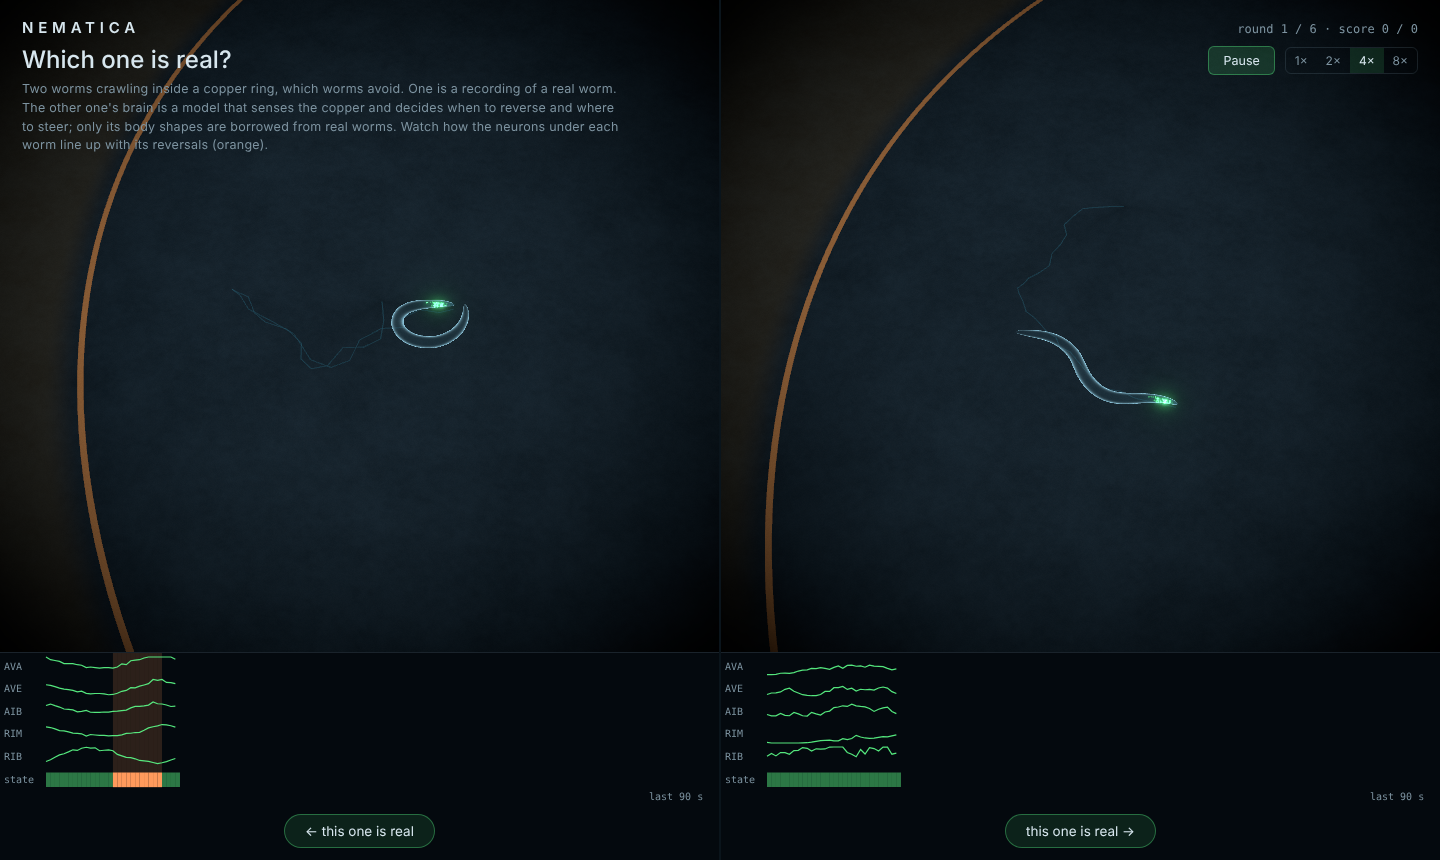
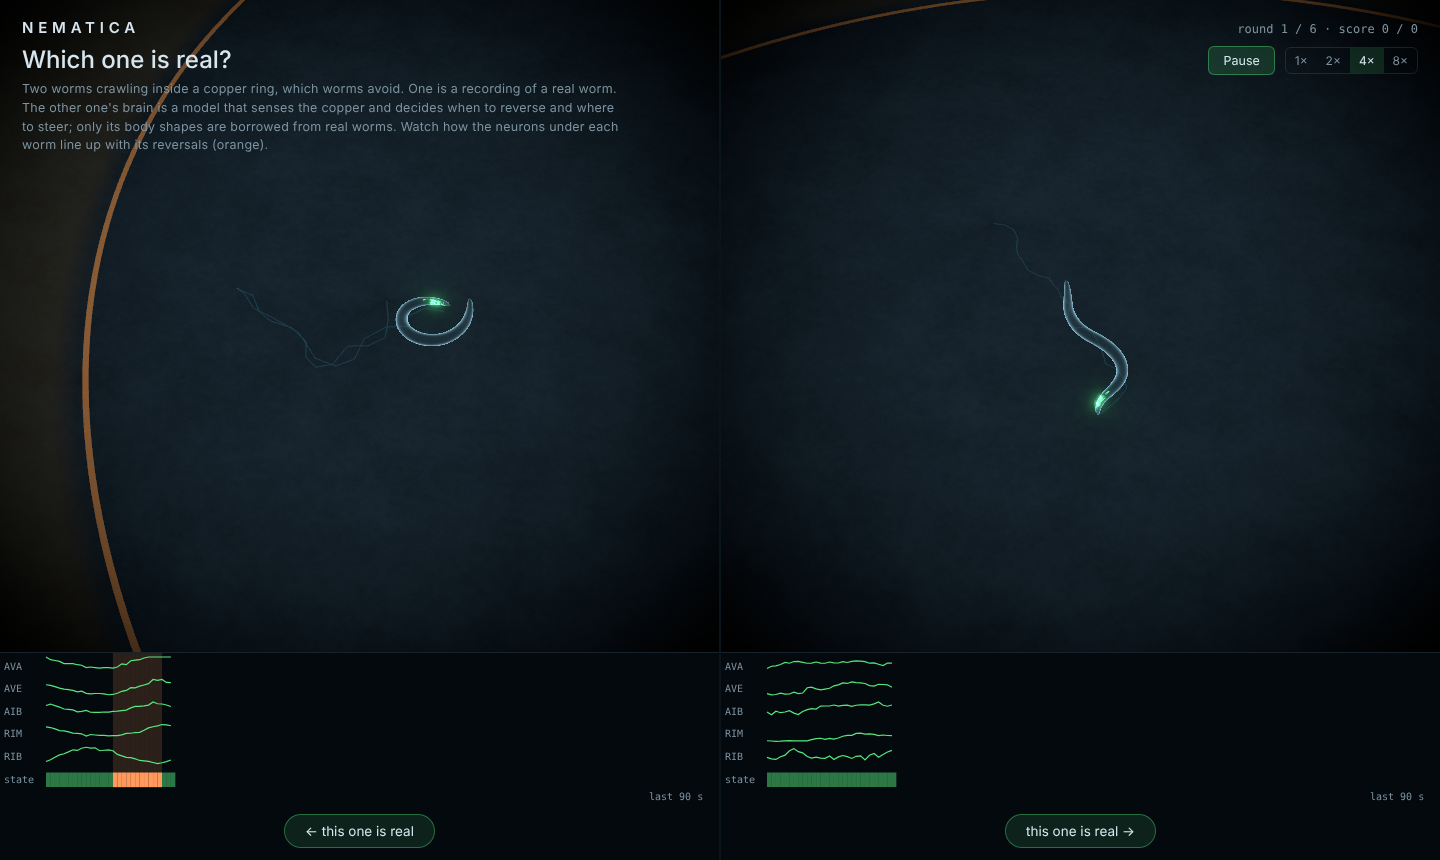
Closed loop v11: copper enters only through ASH; 9/10 pairwise and all of Level 6
Model ASH copper rise 1.11 (real 1.37) open loop. Lead-lag still misses, now because the
command neurons lead ASH in closed loop. Copper showcase switched to v11.

Claude-Session: https://claude.ai/code/session_01MajxYLvWkedCbRCubX3MC6

diff --git a/nematica/systems/closed_loop.py b/nematica/systems/closed_loop.py
@@ -56,7 +56,7 @@ class SensoryVAR:
                  sense_scales=(SENSE_SCALE_MM,), per_worm_rates: bool = False,
                  sense_ridge_mults=(1.0,), steer: bool = False, steer_window: int = 17,
                  copper_limit: bool = False, steer_scales=None, heading_noise: float = 0.0,
-                 stage_speed: bool = False, lags: int = LAGS, slow_taus=(0.0,)):
+                 stage_speed: bool = False, lags: int = LAGS, slow_taus=(0.0,), sense_targets=None):
         """hazard_from: "brain" (core classes and velocity), "speed" (velocity only) or "none"
         (constant rates); copper proximity is added to any of them when `senses` is on.
         directional: add proximity x facing-the-copper to the senses.
@@ -80,6 +80,9 @@ class SensoryVAR:
         self.lags = lags                       # memory of the brain model, frames
         self.slow_taus = tuple(slow_taus)      # candidate tonic-copper time constants, frames
         self.slow_tau = self.slow_taus[0]
+        # copper input only into these classes' rows (e.g. ("ASH",)): every other neuron gets
+        # copper only through the brain's own dynamics [A: sensory neurons receive the stimulus]
+        self.sense_targets = tuple(sense_targets) if sense_targets else None
         self.speed_q_worm: dict = {}
         self.d_limit = -np.inf
         self.offsets: dict = {}
@@ -92,7 +95,8 @@ class SensoryVAR:
         tail = ("_steer" if self.steer and self.senses else "") + ("_limit" if self.copper_limit and self.senses else "") \
             + (f"_lags{self.lags}" if self.lags != LAGS else "") \
             + ("_tonic" if any(t > 0 for t in self.slow_taus) and self.senses else "") \
-            + ("_pen" if self.sense_ridge_mults == (1.0,) and self.hazard_from == "command_ash" else "")
+            + ("_pen" if self.sense_ridge_mults == (1.0,) and self.hazard_from == "command_ash" else "") \
+            + ("_into_" + "_".join(self.sense_targets) if self.sense_targets and self.senses else "")
         if self.reversals == "hysteresis":
             return n + "_hyst" + ("_dir" if self.directional and self.senses else "")
         return n + ("" if self.hazard_from == "brain" else "_" + self.hazard_from) \
@@ -152,6 +156,29 @@ class SensoryVAR:
         return np.concatenate([f, e_prev]) if self.senses else f
 
     # ------------------------------------------------------------------ fit
+    def _sense_cols(self):
+        """Output columns allowed to receive copper input (None = all)."""
+        if not (self.senses and self.sense_targets):
+            return None
+        names = [self.space.classes[c] for c in self.space.core]
+        return np.array([i for i, c in enumerate(names) if c in self.sense_targets], dtype=int)
+
+    def _ridge(self, G, B, pen, n_brain, prior=None):
+        """Ridge solve (G + diag(pen)) W = B (+ diag(pen) prior), with copper rows of W zero
+        outside the target columns when sense_targets is set (column-separable)."""
+        P = np.diag(pen)
+        rhs = B if prior is None else B + P @ prior
+        W = np.linalg.solve(G + P, rhs)
+        cols = self._sense_cols()
+        if cols is None or n_brain >= G.shape[0]:
+            return W
+        other = np.setdiff1d(np.arange(B.shape[1]), cols)
+        Gb, Pb = G[:n_brain, :n_brain], P[:n_brain, :n_brain]
+        rb = B[:n_brain][:, other] if prior is None else B[:n_brain][:, other] + Pb @ prior[:n_brain][:, other]
+        W[:, other] = 0.0
+        W[:n_brain][:, other] = np.linalg.solve(Gb + Pb, rb)
+        return W
+
     def _hazard_data(self, samples, state):
         Xh, yh = [], []
         for s in samples:
@@ -236,7 +263,7 @@ class SensoryVAR:
                 pen = np.ones(X.shape[1])
                 pen[n_brain:] = mult
                 for r in self.ridges:
-                    W = np.linalg.solve(G0 + r * np.diag(pen), X.T @ Y)
+                    W = self._ridge(G0, X.T @ Y, r * pen, n_brain)
                     num = den = 0.0
                     for F, Yv, M in va:
                         P = F @ W
@@ -250,7 +277,7 @@ class SensoryVAR:
         self.W_pool = best[2]
         self.W, self.L, self.names = {}, {}, []
         for s, (F, Yt, M) in zip(train, tr):
-            W = np.linalg.solve(F.T @ F + self.lam * np.eye(F.shape[1]), F.T @ Yt + self.lam * self.W_pool)
+            W = self._ridge(F.T @ F, F.T @ Yt, self.lam * np.ones(F.shape[1]), n_brain, prior=self.W_pool)
             R = (Yt - F @ W) * M
             cov = R.T @ R / len(R) + 1e-6 * np.eye(R.shape[1])
             self.W[s.origin], self.L[s.origin] = W, np.linalg.cholesky(cov)

diff --git a/scripts/export_virtual_worms.py b/scripts/export_virtual_worms.py
@@ -38,10 +38,12 @@ from nematica.systems.closed_loop import SensoryVAR  # noqa: E402
 from nematica.systems.forecasters import (CalciumStateSpace, Debounced, Forecaster,  # noqa: E402
                                           IndividualVAR, LagFeatures)
 
-V7 = dict(senses=True, hazard_from="command_fixed", directional=True, speed_map=True,
-          sense_scales=(0.25, 0.5, 1, 2, 4), per_worm_rates=True, steer=True, copper_limit=True,
-          steer_scales=(0.5, 1, 2, 4, 8), stage_speed=True)
-CL_LABEL = "closed loop v7: the brain model senses copper, decides reversals and steers its own body"
+V11 = dict(senses=True, hazard_from="command_ash", directional=True, speed_map=True,
+           sense_scales=(0.25, 0.5, 1, 2, 4), per_worm_rates=True, steer=True, copper_limit=True,
+           steer_scales=(0.5, 1, 2, 4, 8), stage_speed=True, sense_ridge_mults=(1.0, 0.1, 0.01, 0.0),
+           slow_taus=(0.0, 8.0, 25.0, 50.0), sense_targets=("ASH",))
+CL_LABEL = ("closed loop v11: copper reaches the brain only through ASH; the brain decides reversals "
+            "and steers its own body")
 
 MODEL_LABEL = "per-worm linear dynamics on the calcium drive (10 frames of memory), reversals read with hysteresis"
 METRIC_NAMES = {
@@ -74,7 +76,7 @@ def main() -> int:
     if args.closed_loop and args.out == "lab/public/data/which2":
         args.out = "lab/public/data/which3"
     if args.closed_loop and args.scorecard == "docs/figures/lags_combined.csv":
-        args.scorecard = "docs/figures/closed_loop_v7.csv"
+        args.scorecard = "docs/figures/closed_loop_v11.csv"
 
     recs = load_copper_dir(Path(args.data))
     split = load_split(args.split)
@@ -88,7 +90,7 @@ def main() -> int:
     library = MotionLibrary.from_recordings([by[u] for u in split["train"]])
     cl_runs = {}
     if args.closed_loop:
-        model = SensoryVAR(**V7).fit(train, val)
+        model = SensoryVAR(**V11).fit(train, val)
         model.calibrate_steering(train, [(by[u].meta["arena"]["radius_mm"], float(by[u].behaviour["dist_from_center_mm"][0]),
                                           by[u].t) for u in split["train"]], library,
                                  mults=(1, 2, 3, 4, 5, 6, 8, 12), target="drift")

diff --git a/scripts/run_closed_loop.py b/scripts/run_closed_loop.py
@@ -39,7 +39,7 @@ def main() -> int:
     ap.add_argument("--out", default="results/closed_loop")
     ap.add_argument("--seeds", type=int, default=2)
     ap.add_argument("--seed-offset", type=int, default=0, help="shifts every simulation seed (replicates)")
-    ap.add_argument("--variants", default="v2", choices=("v2", "v3", "v4", "v5", "v6", "v7", "v8", "v9", "v10"))
+    ap.add_argument("--variants", default="v2", choices=("v2", "v3", "v4", "v5", "v6", "v7", "v8", "v9", "v10", "v11"))
     args = ap.parse_args()
     recs = load_copper_dir(Path(args.data))
     classes = tuple(canonical_classes(recs, 0.25))
@@ -97,6 +97,14 @@ def main() -> int:
         variants = {"senses_ash_tonic": dict(**base9, sense_ridge_mults=(1.0, 0.1, 0.01, 0.0),
                                              slow_taus=(8.0, 25.0, 50.0)),
                     "senses_ash_pen": dict(**base9, sense_ridge_mults=(1.0,))}
+    if args.variants == "v11":
+        # v11: copper enters the brain only through ASH (fast, change and tonic inputs on the
+        # ASH row only); reversals from command neurons + ASH, no direct copper term
+        variants = {"senses_into_ash": dict(senses=True, **{**v2, "hazard_from": "command_ash"}, per_worm_rates=True,
+                                            steer=True, copper_limit=True, steer_scales=(0.5, 1, 2, 4, 8),
+                                            stage_speed=True, steer_target="drift",
+                                            sense_ridge_mults=(1.0, 0.1, 0.01, 0.0),
+                                            slow_taus=(0.0, 8.0, 25.0, 50.0), sense_targets=("ASH",))}
     if args.variants == "v4":
         # v4: command neurons set reversal timing around a copper effect fitted first, alone
         variants = {"senses_command_fixed": dict(senses=True, **{**v2, "hazard_from": "command_fixed"},

diff --git a/README.md b/README.md
@@ -57,6 +57,7 @@ choice made on training and validation worms only, except where marked post hoc)
 | Closed loop v8 (10-frame brain) | 9 of 10 | not yet run | occupancy and approach inside; 11% near copper; encounter outside |
 | Closed loop v9 (copper acts only through ASH and the brain) | 8 of 10 | not yet run | **all three Level 6 metrics inside**; 10.4% near copper |
 | Closed loop v10 (v9 + tonic copper input) | 6 of 10 | not yet run | all three Level 6 inside; 25% near copper |
+| **Closed loop v11 (copper enters only through ASH)** | **9 of 10** | not yet run | **all three Level 6 inside**; 13% near copper |
 
 What these say:
 1. **Forecasting is not fidelity.** The model that forecasts best is too typical; letting
@@ -508,6 +509,20 @@ v9 passes all of Level 6 at 8 of 10 pairwise; v7, v8 and v9 with penalised weigh
 of 10 with two of three Level 6 metrics. This looks like a limit of linear dynamics with
 additive sensory input, a concrete target for a nonlinear sensory stage.
 
+**Version 11: copper enters the brain only through ASH** (`--variants v11`,
+`docs/figures/closed_loop_v11.csv`). The brain's copper weights (fast, change and tonic
+inputs) are constrained to ASH's row; every other neuron feels copper only through the
+brain's own dynamics [A: sensory neurons receive the stimulus], and reversals come from
+the command neurons and ASH with no direct copper term. Driven by real recorded copper,
+the model's ASH now rises by 1.11 near copper (real 1.37; v9 0.61, v10 0.90). Over the
+three pools: **9 of 10 pairwise and all three Level 6 metrics inside** (encounter 0.943,
+approach, occupancy), 13.0% of time near copper: the best combined result so far. The
+one miss is still lead-lag (1.08), now for the opposite reason: in closed loop the
+command neurons lead ASH (antisymmetric correlation at 6 s, AVE to ASH +0.138 against real
+-0.165), plausibly because reversals near copper back the worm off and the next approach
+raises ASH again, so ASH follows the commands instead of preceding them. Pattern
+correlation with real lead-lag falls to 0.77 (v7: 0.96).
+
 
 ## Leaderboard: published models
 
@@ -560,11 +575,11 @@ human viewers.
 
 
 **Copper version** (`python scripts/export_virtual_worms.py --closed-loop ...`, then open
-the lab at `?mode=which&set=which3`): the model worm is the v7 closed-loop worm, simulated
+the lab at `?mode=which&set=which3`): the model worm is the v11 closed-loop worm, simulated
 in the real worm's own copper arena (same radius, same starting distance), and both worms
 are shown inside their copper rings. Its brain senses the copper and decides when to
-reverse and where to steer; only body shapes are borrowed. The reveal shows the v7
-scorecard (9 of 10 pairwise; occupancy and approach inside).
+reverse and where to steer; only body shapes are borrowed. The reveal shows the v11
+scorecard (9 of 10 pairwise; all three Level 6 metrics inside).
 
 ## Rules that keep the benchmark honest
 
